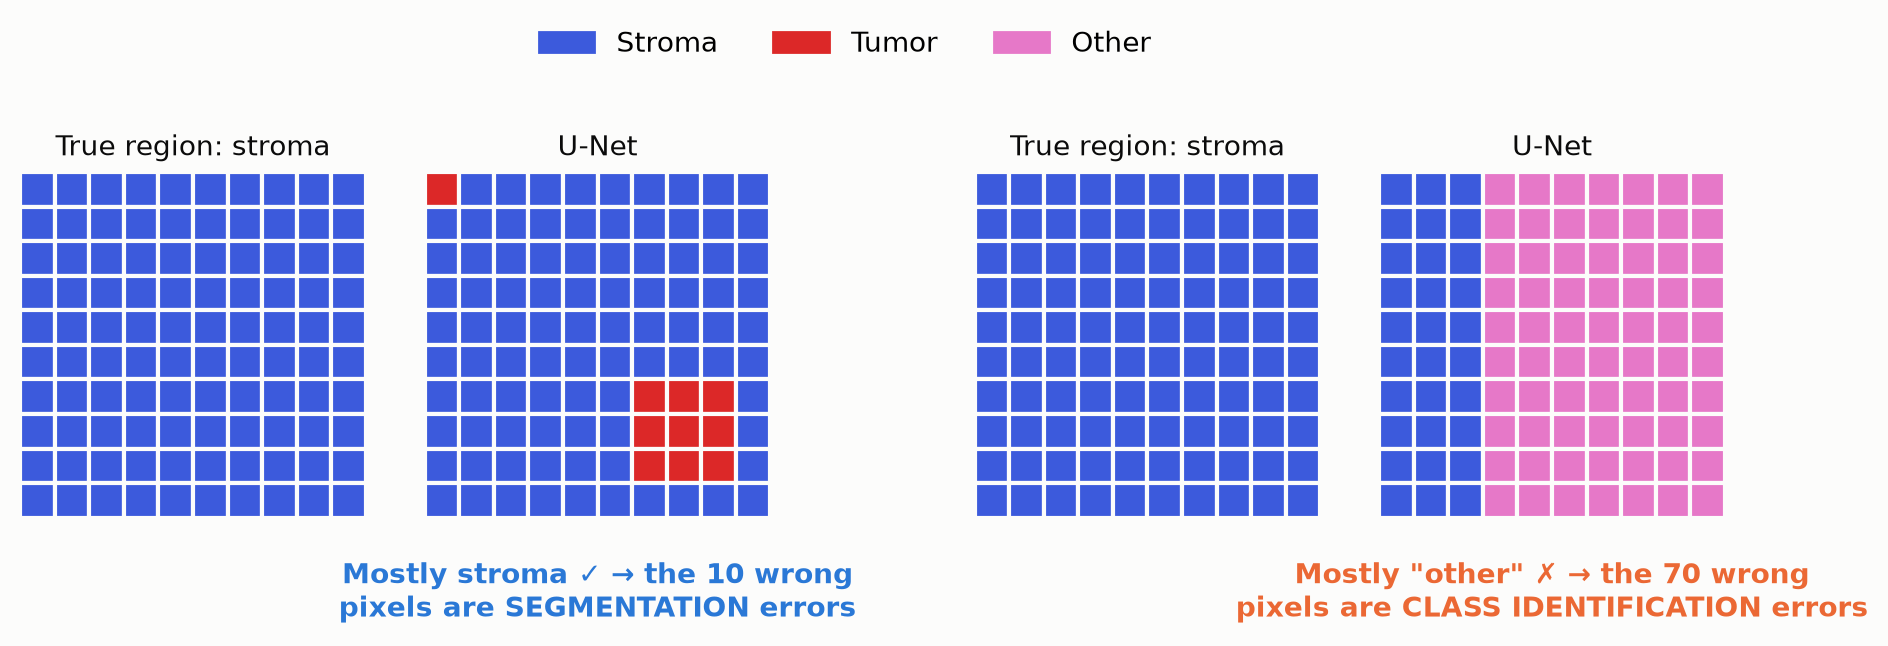
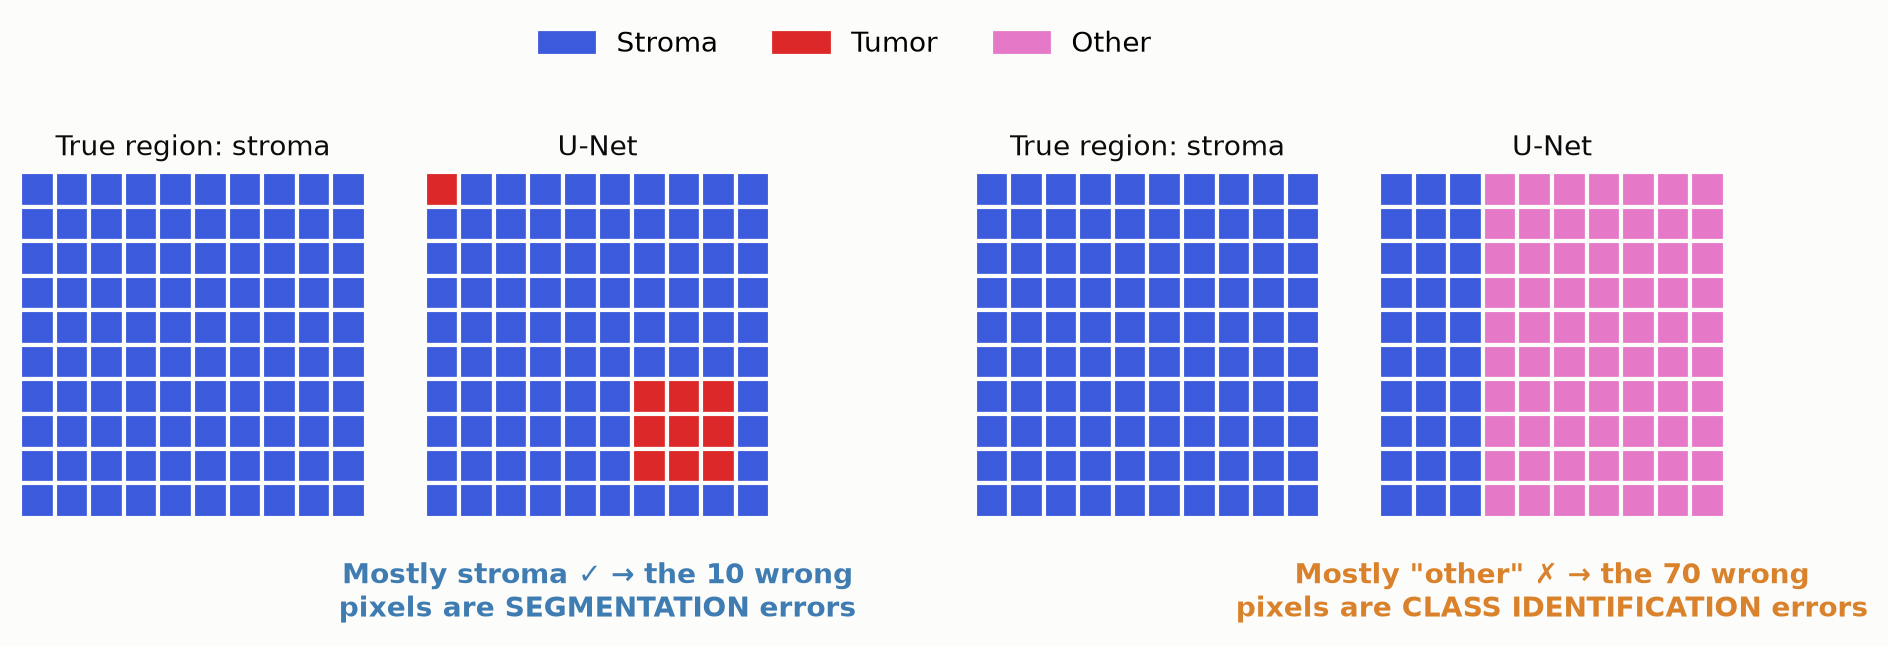
Deliverable 7: BCSS preliminary tests framed as segmentation vs class identification, calmer colours, averages
Claude-Session: https://claude.ai/code/session_01CTh5Qud5ucWXzk6pK8w2Lo

Changed region(s): [[0.6562, 0.8669, 1.0, 0.9598], [0.1562, 0.8669, 0.4688, 0.9598]]

diff --git a/docs/deliverable7/index.html b/docs/deliverable7/index.html
@@ -142,23 +142,30 @@
 
 <section id="prelim-bcss">
 <h2>BCSS preliminary tests</h2>
+<div class="take"><b>Goal:</b> find out whether <b>segmentation</b> or <b>class identification</b> is the bigger problem for the U-Net, so we know what to fix first.</div>
 <p class="note">Full-resolution U-Net · 185 BCSS dev tiles · no training</p>
 
-<h3>Two kinds of error</h3>
-<p>For each <b>true region</b> (one connected piece of one class in the ground truth), look at what the U-Net predicts inside it. If its most common label is right, the wrong pixels are <b>segmentation</b> errors (the shape is off). If it's wrong, they are <b>class identification</b> errors (the region was misread).</p>
+<h3>The two errors</h3>
+<ul>
+  <li><b>Segmentation error:</b> the U-Net knows what a region is, but gets its shape wrong: pieces break off, borders are off.</li>
+  <li><b>Class identification error:</b> the U-Net gets the shape roughly right, but calls the region the wrong tissue.</li>
+</ul>
+
+<h3>Method</h3>
+<p>Take each true region (one connected piece of one class in the ground truth) and check the U-Net's most common label inside it. <b>Right</b> → its wrong pixels are segmentation errors. <b>Wrong</b> → they are class identification errors.</p>
 <img src="prelim_split_diagram.png" alt="Diagram: a mostly-right region gives segmentation errors; a mostly-wrong region gives class identification errors">
 
-<h3>Test 1 · Which error is more common?</h3>
-<img src="prelim_error_split.png" alt="Test 1: errors per class, segmentation vs class identification">
-<div class="take"><b>About half each.</b> "Other" and stroma fail mostly by class identification; inflammatory and necrosis mostly by segmentation.</div>
+<h3>Test 1 · How much of each class is wrong, and why?</h3>
+<img src="prelim_error_split.png" alt="Test 1: percent of each class wrong, split into segmentation and class identification errors, with the average">
+<div class="take"><b>Class identification is slightly bigger on average</b> (12.2% vs 9.4% of a class's pixels). It dominates for "other" and stroma, while segmentation dominates for inflammatory, necrosis and tumor.</div>
 
-<h3>Test 2 · What is fixing each one worth?</h3>
+<h3>Test 2 · What would fixing each one be worth?</h3>
 <ul>
   <li><b>Perfect class identification:</b> keep the U-Net's regions; give each the class most of its true pixels have.</li>
   <li><b>Perfect segmentation:</b> keep the true regions; give each the class the U-Net predicts for most of it.</li>
 </ul>
 <img src="prelim_ladder.png" alt="Test 2: today's methods vs. each problem made perfect">
-<div class="take"><b>Each problem is worth about +0.10 to +0.12.</b> Presence (+0.0086) and smoothing (+0.0023) recover only a small fraction.</div>
+<div class="take"><b>Both matter about equally:</b> perfect class identification +0.1186, perfect segmentation +0.1028. Presence (+0.0086) and smoothing (+0.0023) recover only a small fraction.</div>
 </section>
 
 <section id="pannuke-organs">

diff --git a/deliverables/figures_20261123/prelim_figures.py b/deliverables/figures_20261123/prelim_figures.py
@@ -205,9 +205,9 @@ def fig_split_diagram():
     grid(axes[4], cls, "U-Net")
     axes[2].axis("off")
     axes[1].text(0.5, -0.12, "Mostly stroma ✓ → the 10 wrong\npixels are SEGMENTATION errors",
-                 transform=axes[1].transAxes, ha="center", va="top", color=BLUE, fontsize=10, fontweight="bold")
+                 transform=axes[1].transAxes, ha="center", va="top", color="#3e7cb1", fontsize=10, fontweight="bold")
     axes[4].text(0.5, -0.12, "Mostly \"other\" ✗ → the 70 wrong\npixels are CLASS IDENTIFICATION errors",
-                 transform=axes[4].transAxes, ha="center", va="top", color=ORANGE, fontsize=10, fontweight="bold")
+                 transform=axes[4].transAxes, ha="center", va="top", color="#d9822b", fontsize=10, fontweight="bold")
     handles = [plt.Rectangle((0, 0), 1, 1, color=col(k)) for k in (stroma, tumor, other)]
     fig.legend(handles, ["Stroma", "Tumor", "Other"], loc="upper center", ncol=3, frameon=False,
                bbox_to_anchor=(0.5, 1.08))
@@ -254,9 +254,9 @@ def fig_split_v2(seg_pct, cls_pct, overall=(48, 52)):
 def fig_ladder_v2(raw, wcsp, presence, class_id, seg):
     """Test 2: today's methods vs. each problem made perfect, on one mIoU axis up to 1.0."""
     rows = [("U-Net", raw, GRAY, "Today"), ("+ WCSP smoothing", wcsp, GRAY, "Today"),
-            ("+ presence rule", presence, BLUE, "Today"),
-            ("Perfect class identification", class_id, BLUE, "If perfect"),
-            ("Perfect segmentation", seg, ORANGE, "If perfect"),
+            ("+ presence rule", presence, GRAY, "Today"),
+            ("Perfect class identification", class_id, "#f2a65a", "If perfect"),
+            ("Perfect segmentation", seg, "#3e7cb1", "If perfect"),
             ("Both perfect (= ground truth)", 1.0, "#d9d8d2", "If perfect")]
     fig, ax = plt.subplots(figsize=(7.2, 3.4))
     ys = np.array([6.4, 5.4, 4.4, 2.6, 1.6, 0.6])
@@ -281,3 +281,39 @@ def fig_ladder_v2(raw, wcsp, presence, class_id, seg):
     ax.set_axisbelow(True)
     ax.spines["left"].set_visible(False)
     fig.savefig(OUT / "prelim_ladder.png", dpi=200, bbox_inches="tight")
+
+
+# ---- v3: calmer colours, numbers in every segment, average row ----------------------------
+SEG_C, CLS_C = "#3e7cb1", "#f2a65a"     # segmentation: soft blue; class identification: amber
+
+
+def fig_split_v3(seg_pct, cls_pct):
+    """Test 1: % of each class's pixels that are wrong, split by error type, plus the average."""
+    names = NAMES + ["Average"]
+    seg = list(seg_pct) + [float(np.mean(seg_pct))]
+    cls = list(cls_pct) + [float(np.mean(cls_pct))]
+    fig, ax = plt.subplots(figsize=(7.4, 3.5))
+    ys = np.array([6.2, 5.2, 4.2, 3.2, 2.2, 0.8])
+    for y, name, g, l in zip(ys, names, seg, cls):
+        avg = name == "Average"
+        ax.barh(y, g, color=SEG_C, height=0.66, edgecolor=SURFACE, linewidth=2, alpha=0.75 if avg else 1)
+        ax.barh(y, l, left=g, color=CLS_C, height=0.66, edgecolor=SURFACE, linewidth=2, alpha=0.75 if avg else 1)
+        ax.text(g / 2, y, f"{g:.1f}", ha="center", va="center", color="#ffffff", fontsize=9, fontweight="bold")
+        ax.text(g + l / 2, y, f"{l:.1f}", ha="center", va="center", color=INK, fontsize=9, fontweight="bold")
+        ax.text(g + l + 0.7, y, f"{g + l:.1f}% wrong", va="center", color=INK, fontsize=9.5,
+                fontweight="bold" if avg else "normal")
+    ax.axhline(1.5, color=GRID, linewidth=1.2)
+    ax.set_yticks(ys, names)
+    for lbl in ax.get_yticklabels():
+        if lbl.get_text() == "Average":
+            lbl.set_fontweight("bold")
+    ax.tick_params(axis="y", length=0)
+    ax.set_xlim(0, 46)
+    ax.set_xlabel("% of the class's pixels that are wrong")
+    ax.grid(axis="x", color=GRID, linewidth=0.8)
+    ax.set_axisbelow(True)
+    ax.spines["left"].set_visible(False)
+    handles = [plt.Rectangle((0, 0), 1, 1, color=c) for c in (SEG_C, CLS_C)]
+    ax.legend(handles, ["Segmentation error", "Class identification error"], frameon=False, ncol=2,
+              loc="upper center", bbox_to_anchor=(0.45, 1.15))
+    fig.savefig(OUT / "prelim_error_split.png", dpi=200, bbox_inches="tight")

diff --git a/deliverables/deliverable_7.md b/deliverables/deliverable_7.md
@@ -48,28 +48,35 @@ mIoU, with the change vs. the base model in brackets. "—" = not run (yet).
 
 ## BCSS preliminary tests
 
+**Goal:** find out whether **segmentation** or **class identification** is the bigger problem for the U-Net, so we know what to fix first.
+
 *Full-resolution U-Net · 185 BCSS dev tiles · no training*
 
-### Two kinds of error
+### The two errors
 
-For each **true region** (one connected piece of one class in the ground truth), look at what the U-Net predicts inside it. If its most common label is right, the wrong pixels are **segmentation** errors (the shape is off). If it's wrong, they are **class identification** errors (the region was misread).
+- **Segmentation error:** the U-Net knows what a region is, but gets its shape wrong: pieces break off, borders are off.
+- **Class identification error:** the U-Net gets the shape roughly right, but calls the region the wrong tissue.
 
-![Error types](figures_20261123/prelim_split_diagram.png)
+### Method
 
-### Test 1 · Which error is more common?
+Take each true region (one connected piece of one class in the ground truth) and check the U-Net's most common label inside it. **Right** → its wrong pixels are segmentation errors. **Wrong** → they are class identification errors.
+
+![Method](figures_20261123/prelim_split_diagram.png)
+
+### Test 1 · How much of each class is wrong, and why?
 
 ![Test 1](figures_20261123/prelim_error_split.png)
 
-**About half each.** "Other" and stroma fail mostly by class identification; inflammatory and necrosis mostly by segmentation.
+**Class identification is slightly bigger on average** (12.2% vs 9.4% of a class's pixels). It dominates for "other" and stroma, while segmentation dominates for inflammatory, necrosis and tumor.
 
-### Test 2 · What is fixing each one worth?
+### Test 2 · What would fixing each one be worth?
 
 - **Perfect class identification:** keep the U-Net's regions; give each the class most of its true pixels have.
 - **Perfect segmentation:** keep the true regions; give each the class the U-Net predicts for most of it.
 
 ![Test 2](figures_20261123/prelim_ladder.png)
 
-**Each problem is worth about +0.10 to +0.12.** Presence (+0.0086) and smoothing (+0.0023) recover only a small fraction.
+**Both matter about equally:** perfect class identification +0.1186, perfect segmentation +0.1028. Presence (+0.0086) and smoothing (+0.0023) recover only a small fraction.
 
 ---
 
